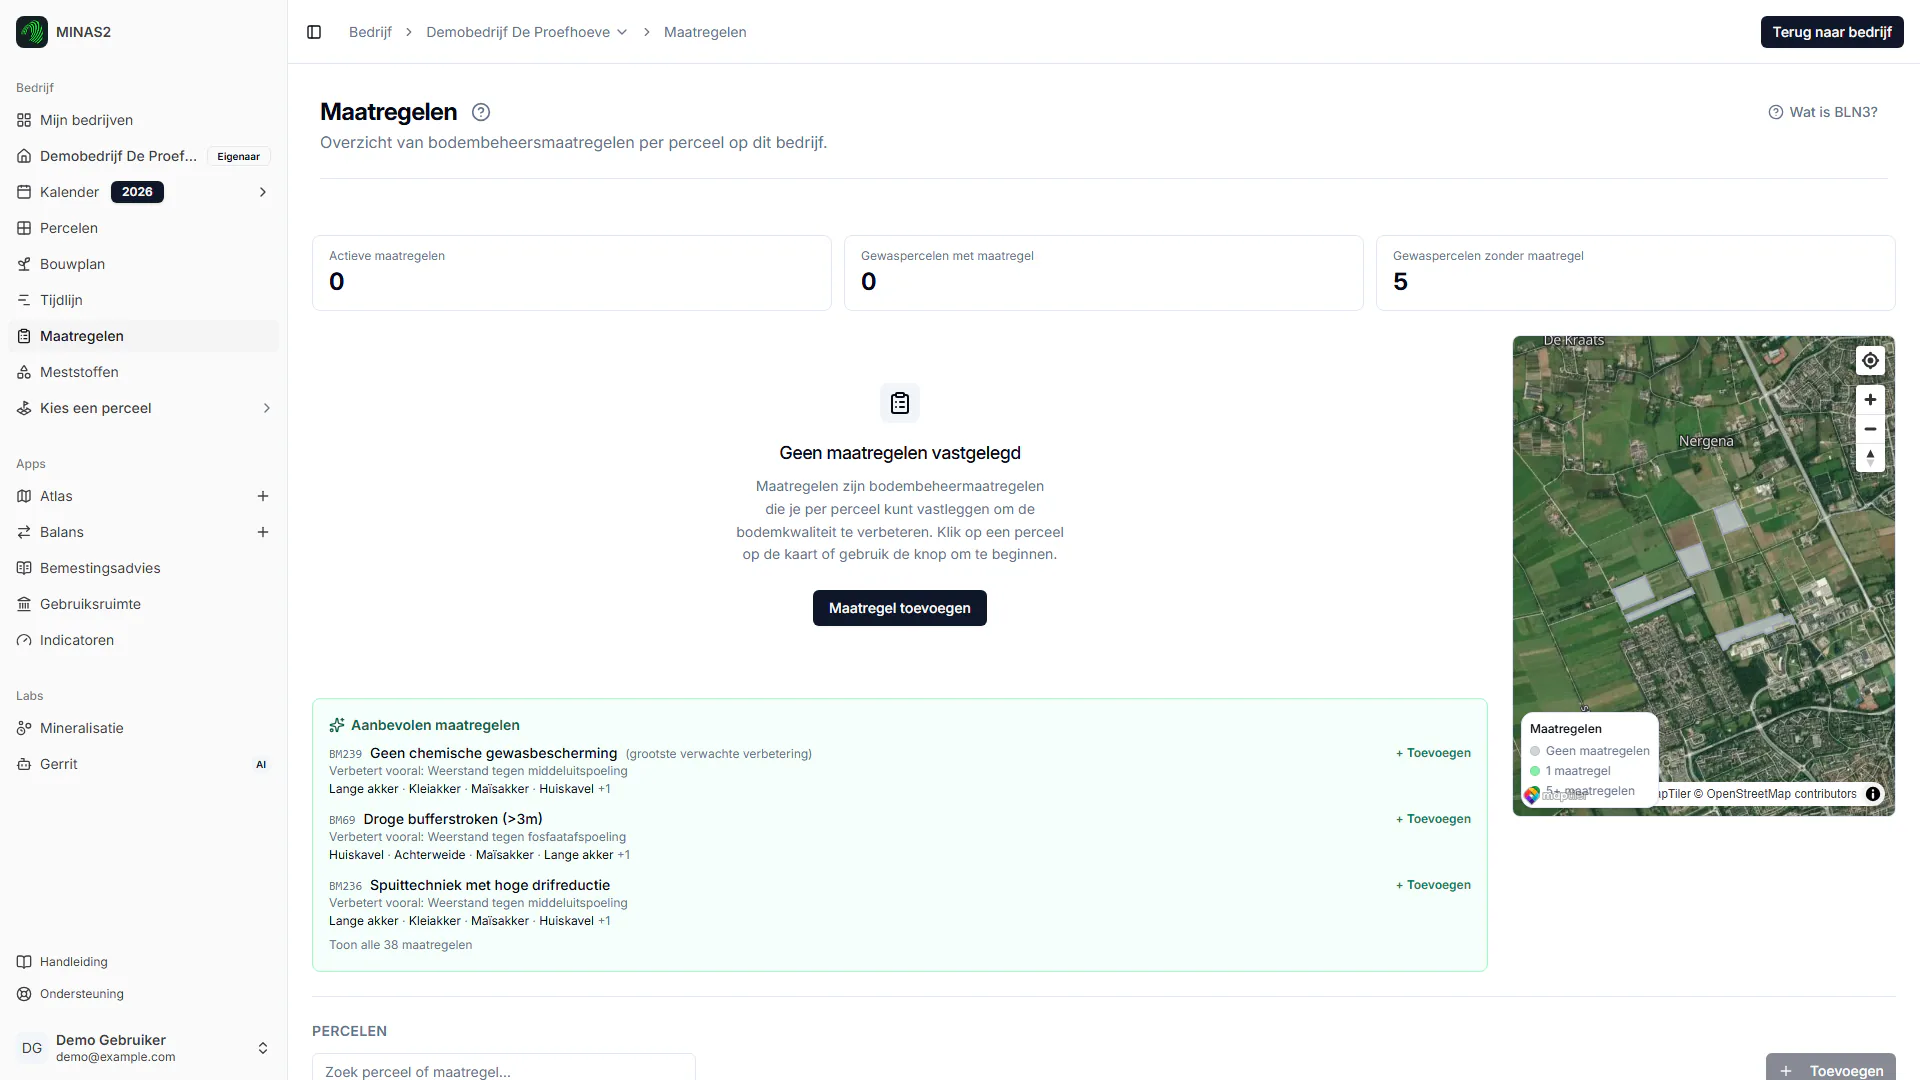
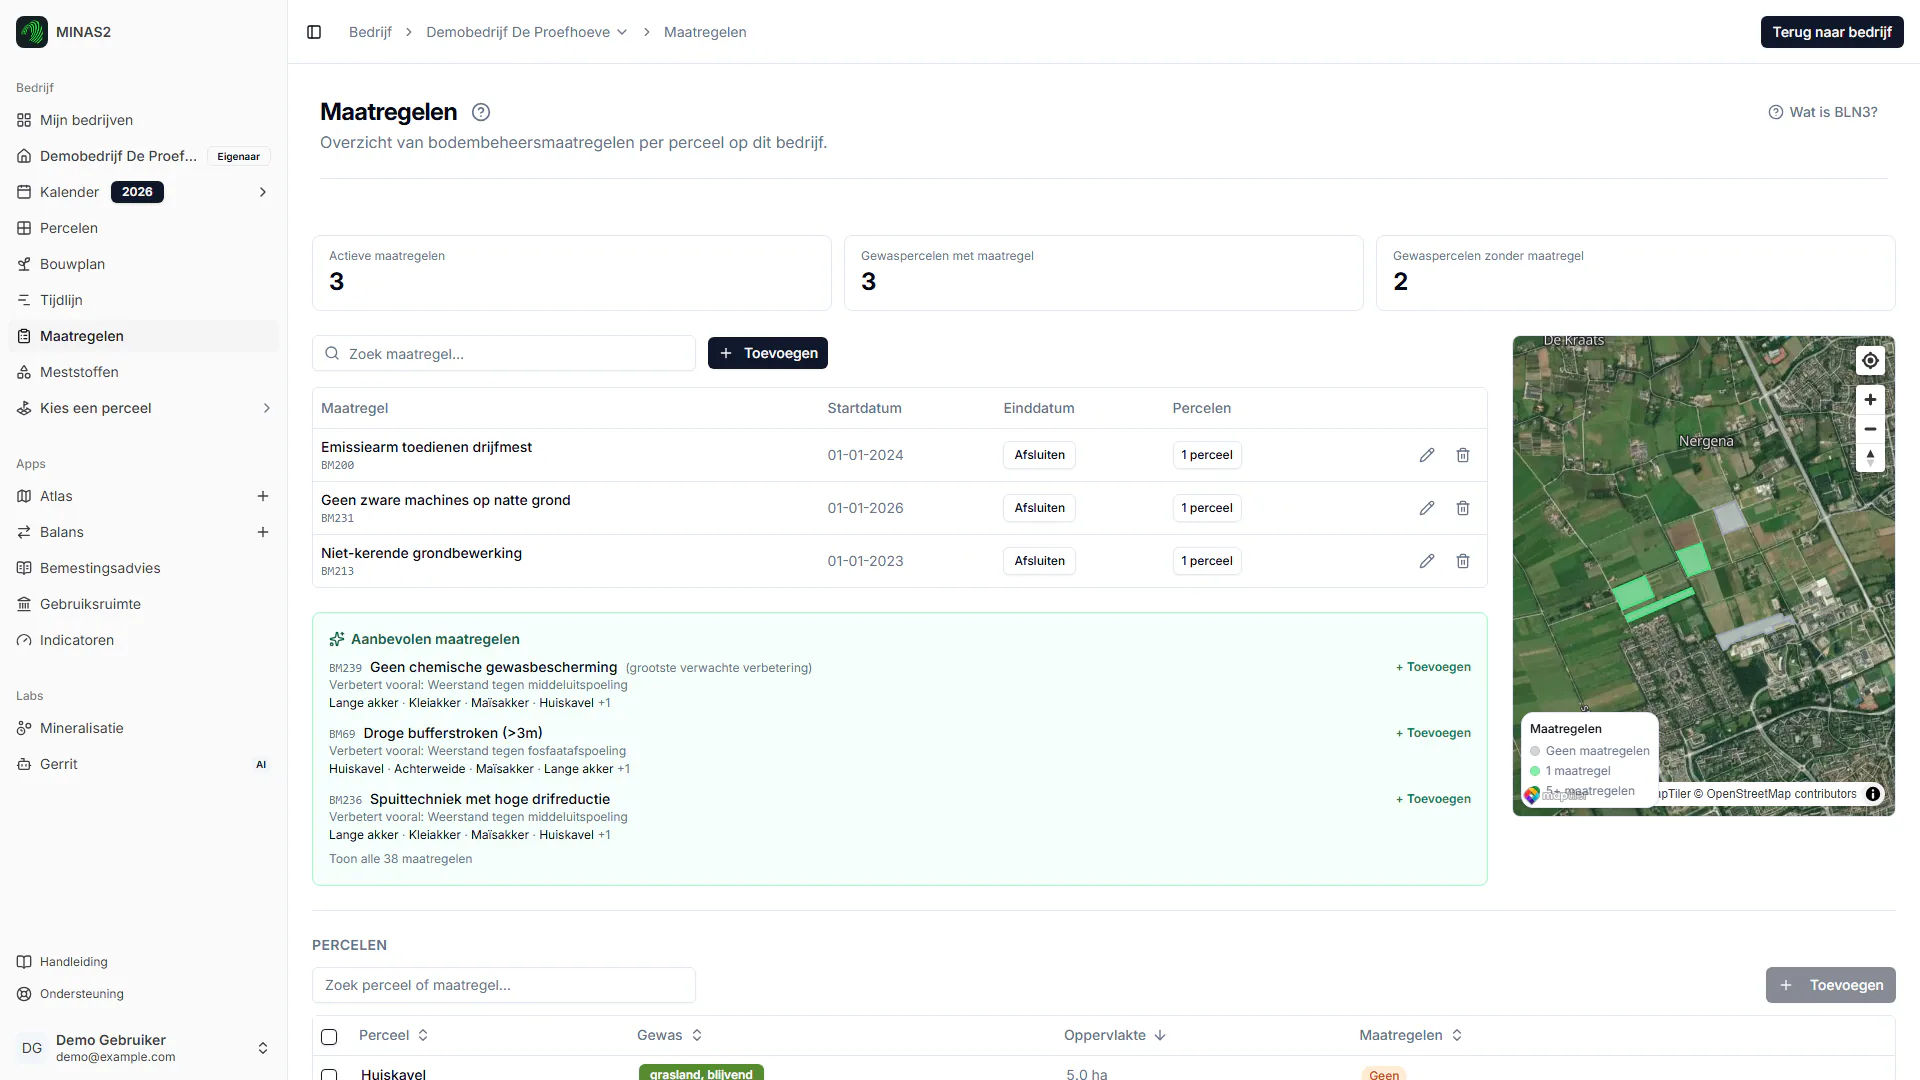
feat(fdm-app): add measures and BodemConditieScore assessments to the demo farm
The demo variant now has three BLN measures and two BCS assessments on the
Achterweide, so the manual can show those pages with data. The measures,
indicator and field list screenshots change accordingly.

diff --git a/fdm-app/e2e/seed/index.ts b/fdm-app/e2e/seed/index.ts
@@ -9,7 +9,8 @@
  *
  * - `minimal`: two fields with a crop, harvests, fertilisation and a soil analysis; enough for
  *   smoke tests of every page.
- * - `demo`: five fields, covering every page that the user manual documents.
+ * - `demo`: five fields, with measures and soil condition scores, covering every page that the user
+ *   manual documents.
  */
 
 import type { FeatureCollection, MultiPolygon, Polygon } from "geojson"
@@ -20,6 +21,7 @@ import {
   addFertilizerApplication,
   addField,
   addHarvest,
+  addMeasure,
   addSoilAnalysis,
   createFdmAuth,
   createFdmServer,
@@ -238,6 +240,57 @@ const FIELDS: DemoField[] = [
   },
 ]
 
+/** The measures of the `demo` variant, by their id in the BLN catalogue. */
+const MEASURES: { field: DemoFieldKey; m_id: string; startYearOffset: number }[] = [
+  { field: "mais", m_id: "bln_BM200", startYearOffset: -2 }, // Emissiearm toedienen drijfmest
+  { field: "tarwe", m_id: "bln_BM213", startYearOffset: -3 }, // Niet-kerende grondbewerking
+  { field: "grasland-achter", m_id: "bln_BM231", startYearOffset: 0 }, // Geen zware machines op natte grond
+]
+
+type BcsScores = NonNullable<Parameters<typeof addSoilAnalysis>[7]>
+
+/**
+ * The soil condition score (BCS) assessments of the `demo` variant: a score of 0, 1 or 2 per
+ * visual indicator, as the app stores them. A spring assessment with some puddling and wheel
+ * ruts, and a better one after the measure against heavy machinery on wet soil.
+ */
+const BCS_ASSESSMENTS: {
+  field: DemoFieldKey
+  date: [month: number, day: number]
+  scores: BcsScores
+}[] = [
+  {
+    field: "grasland-achter",
+    date: [3, 12],
+    scores: {
+      a_cc_bcs: 2,
+      a_rd_bcs: 1,
+      a_sc_bcs: 1,
+      a_ew_bcs: 1,
+      a_ss_bcs: 1,
+      a_gs_bcs: 2,
+      a_p_bcs: 1,
+      a_c_bcs: 0,
+      a_rt_bcs: 1,
+    },
+  },
+  {
+    field: "grasland-achter",
+    date: [5, 20],
+    scores: {
+      a_cc_bcs: 2,
+      a_rd_bcs: 2,
+      a_sc_bcs: 1,
+      a_ew_bcs: 2,
+      a_ss_bcs: 2,
+      a_gs_bcs: 2,
+      a_p_bcs: 0,
+      a_c_bcs: 0,
+      a_rt_bcs: 1,
+    },
+  },
+]
+
 /**
  * Returns the outline of a demo field.
  *
@@ -249,6 +302,20 @@ function outline(key: DemoFieldKey): Polygon {
   const geometry = OUTLINES.get(key)
   if (!geometry) throw new Error(`fields.geojson has no outline for ${key}`)
   return geometry
+}
+
+/**
+ * Returns the id of a seeded demo field.
+ *
+ * @param fields - The seeded fields.
+ * @param key - The key of the field.
+ * @returns The field id.
+ * @throws When the field was not seeded.
+ */
+function fieldId(fields: DemoFarmIds["fields"], key: DemoFieldKey): string {
+  const b_id = fields[key]
+  if (!b_id) throw new Error(`The demo field ${key} was not seeded`)
+  return b_id
 }
 
 /**
@@ -419,6 +486,32 @@ export async function seedFarm(
         field.soil.depthLower,
         date(year, 1, 20),
         { ...data, b_sampling_geometry: samplingPoints(zone), b_sampling_geometry_zone: zone },
+      )
+    }
+  }
+
+  if (variant === "demo") {
+    for (const measure of MEASURES) {
+      await addMeasure(
+        fdm,
+        principal,
+        fieldId(fields, measure.field),
+        measure.m_id,
+        date(year + measure.startYearOffset, 1, 1),
+      )
+    }
+    // Stored like the app does: a soil analysis with only the visual scores, 25 cm deep.
+    for (const assessment of BCS_ASSESSMENTS) {
+      const day = date(year, assessment.date[0], assessment.date[1])
+      await addSoilAnalysis(
+        fdm,
+        principal,
+        day,
+        "other",
+        fieldId(fields, assessment.field),
+        25,
+        day,
+        assessment.scores,
       )
     }
   }

diff --git a/.changeset/manual-screenshots-fdm-app.md b/.changeset/manual-screenshots-fdm-app.md
@@ -6,7 +6,7 @@ The user manual now shows screenshots of the app: every step of setting up a far
 
 For developers:
 
-- fdm-app has a Playwright setup (`playwright.config.ts`, `e2e/`) that runs the production build against an empty PostGIS database. It has a seed for a demo farm (variants `minimal` and `demo`) and signs in through the normal magic-link flow, with the one-time code read from the database. The demo farm, user and data are made up; the field outlines are public BRP parcels near Wageningen.
+- fdm-app has a Playwright setup (`playwright.config.ts`, `e2e/`) that runs the production build against an empty PostGIS database. It has a seed for a demo farm (variants `minimal` and `demo`; the latter also has measures and BodemConditieScore assessments) and signs in through the normal magic-link flow, with the one-time code read from the database. The demo farm, user and data are made up; the field outlines are public BRP parcels near Wageningen.
 - The `screenshots` project captures every screenshot the manual uses on a 1920 × 1080 screen (`pnpm --filter @nmi-agro/fdm-app screenshots`). It writes WebP images plus `manifest.json`. A new workflow, `manual-screenshots.yml`, runs it on the release or hotfix branch when its pull request to `main` is opened, or on demand, and opens a pull request with the changed images into that branch.
 - Flows that read uploaded files, such as the review of lab reports, are captured with made-up reports: the run answers the app's reading endpoint itself, so no real report ever appears. The KvK lookup uses the public KvK test environment, which only returns fictional companies.
 - The unit tests check that every screenshot in the manual has a capture definition.
